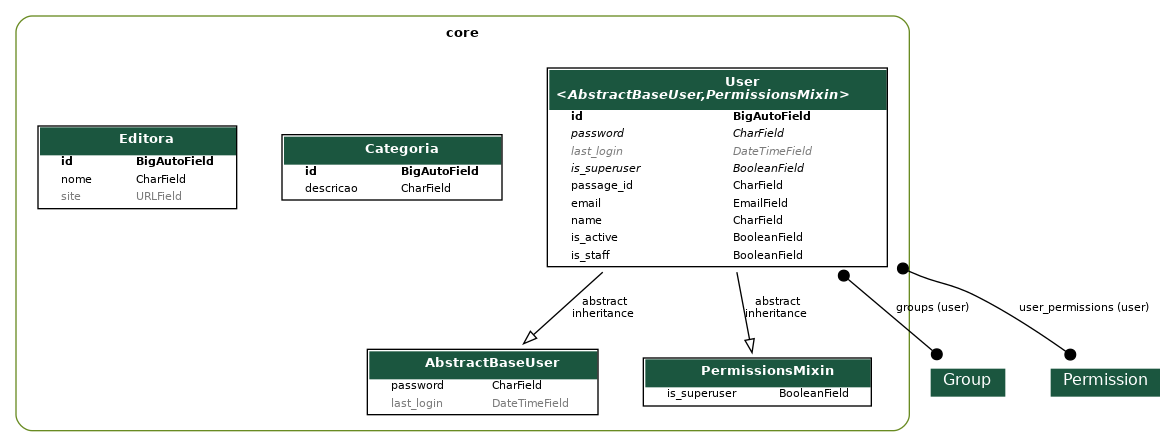
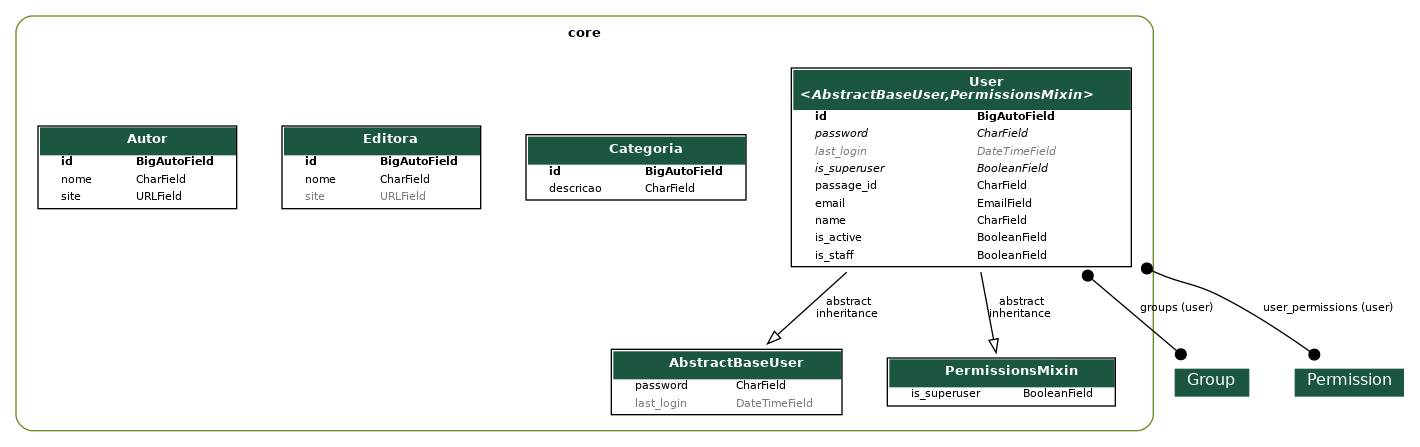
Criação da API para Autor

diff --git a/app/urls.py b/app/urls.py
@@ -9,13 +9,15 @@ from drf_spectacular.views import (
 from rest_framework.routers import DefaultRouter
 from rest_framework_simplejwt.views import TokenObtainPairView, TokenRefreshView
 
-from core.views import UserViewSet, CategoriaViewSet, EditoraViewSet
+from core.views import UserViewSet, CategoriaViewSet, EditoraViewSet, AutorViewSet
 
 router = DefaultRouter()
 
 router.register(r"usuarios", UserViewSet, basename="usuarios")
 router.register(r"categorias", CategoriaViewSet, basename="categorias")
 router.register(r"editoras", EditoraViewSet, basename="editoras")
+router.register(r"autores", AutorViewSet, basename="autores")
+
 
 urlpatterns = [
     path("admin/", admin.site.urls),

diff --git a/core/migrations/0004_autor.py b/core/migrations/0004_autor.py
@@ -1,0 +1,21 @@
+# Generated by Django 5.0.6 on 2024-08-20 19:42
+
+from django.db import migrations, models
+
+
+class Migration(migrations.Migration):
+
+    dependencies = [
+        ("core", "0003_editora"),
+    ]
+
+    operations = [
+        migrations.CreateModel(
+            name="Autor",
+            fields=[
+                ("id", models.BigAutoField(auto_created=True, primary_key=True, serialize=False, verbose_name="ID")),
+                ("nome", models.CharField(default="...", max_length=100)),
+                ("site", models.URLField(null=True)),
+            ],
+        ),
+    ]

diff --git a/core/views/autor.py b/core/views/autor.py
@@ -1,0 +1,9 @@
+from rest_framework.viewsets import ModelViewSet
+
+from core.models import Categoria, Autor
+from core.serializers import  AutorSerializer
+
+
+class AutorViewSet(ModelViewSet):
+    queryset = Autor.objects.all()
+    serializer_class = AutorSerializer

diff --git a/core/models/autor.py b/core/models/autor.py
@@ -1,0 +1,8 @@
+from django.db import models
+
+class Autor(models.Model):
+    nome = models.CharField(max_length=100, default="...")
+    site = models.URLField(max_length=200, null=True)
+
+    def __str__(self):
+        return f"(#{self.id}) {self.nome}"

diff --git a/core/serializers/autor.py b/core/serializers/autor.py
@@ -1,0 +1,9 @@
+from rest_framework.serializers import ModelSerializer
+
+from core.models import Autor
+
+
+class AutorSerializer(ModelSerializer):
+    class Meta:
+        model = Autor
+        fields = "__all__"

diff --git a/core/admin.py b/core/admin.py
@@ -54,3 +54,4 @@ class UserAdmin(BaseUserAdmin):
 admin.site.register(models.User, UserAdmin)
 admin.site.register(models.Categoria)
 admin.site.register(models.Editora)
+admin.site.register(models.Autor)

diff --git a/core/serializers/__init__.py b/core/serializers/__init__.py
@@ -1,3 +1,4 @@
 from .user import UserSerializer
 from .categoria import CategoriaSerializer
 from .editora import EditoraSerializer
+from .autor import AutorSerializer

diff --git a/core/views/__init__.py b/core/views/__init__.py
@@ -1,3 +1,4 @@
 from .user import UserViewSet
 from .categoria import CategoriaViewSet
 from .editora import EditoraViewSet
+from .autor import AutorViewSet 

diff --git a/core/models/__init__.py b/core/models/__init__.py
@@ -1,4 +1,4 @@
 from .user import User
 from .categoria import Categoria
 from .editora import Editora
-
+from .autor import Autor
